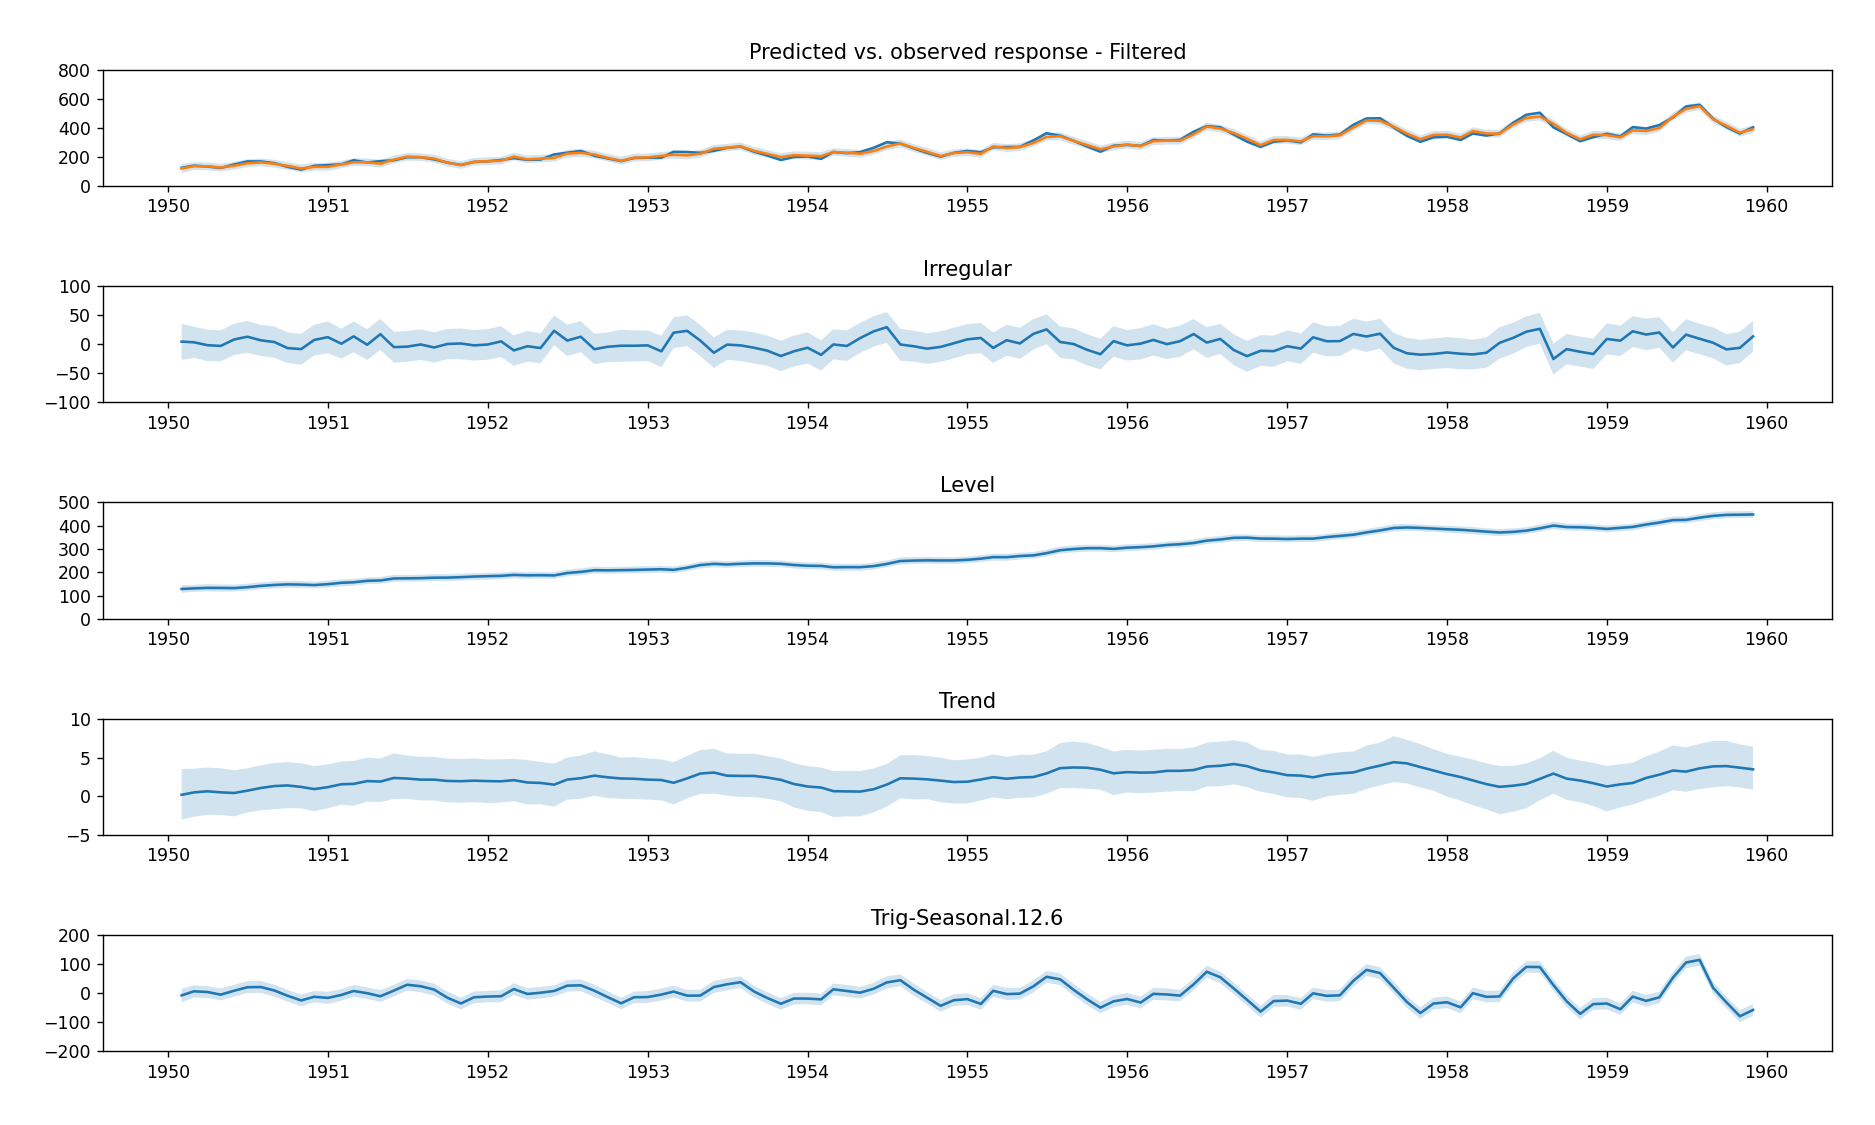
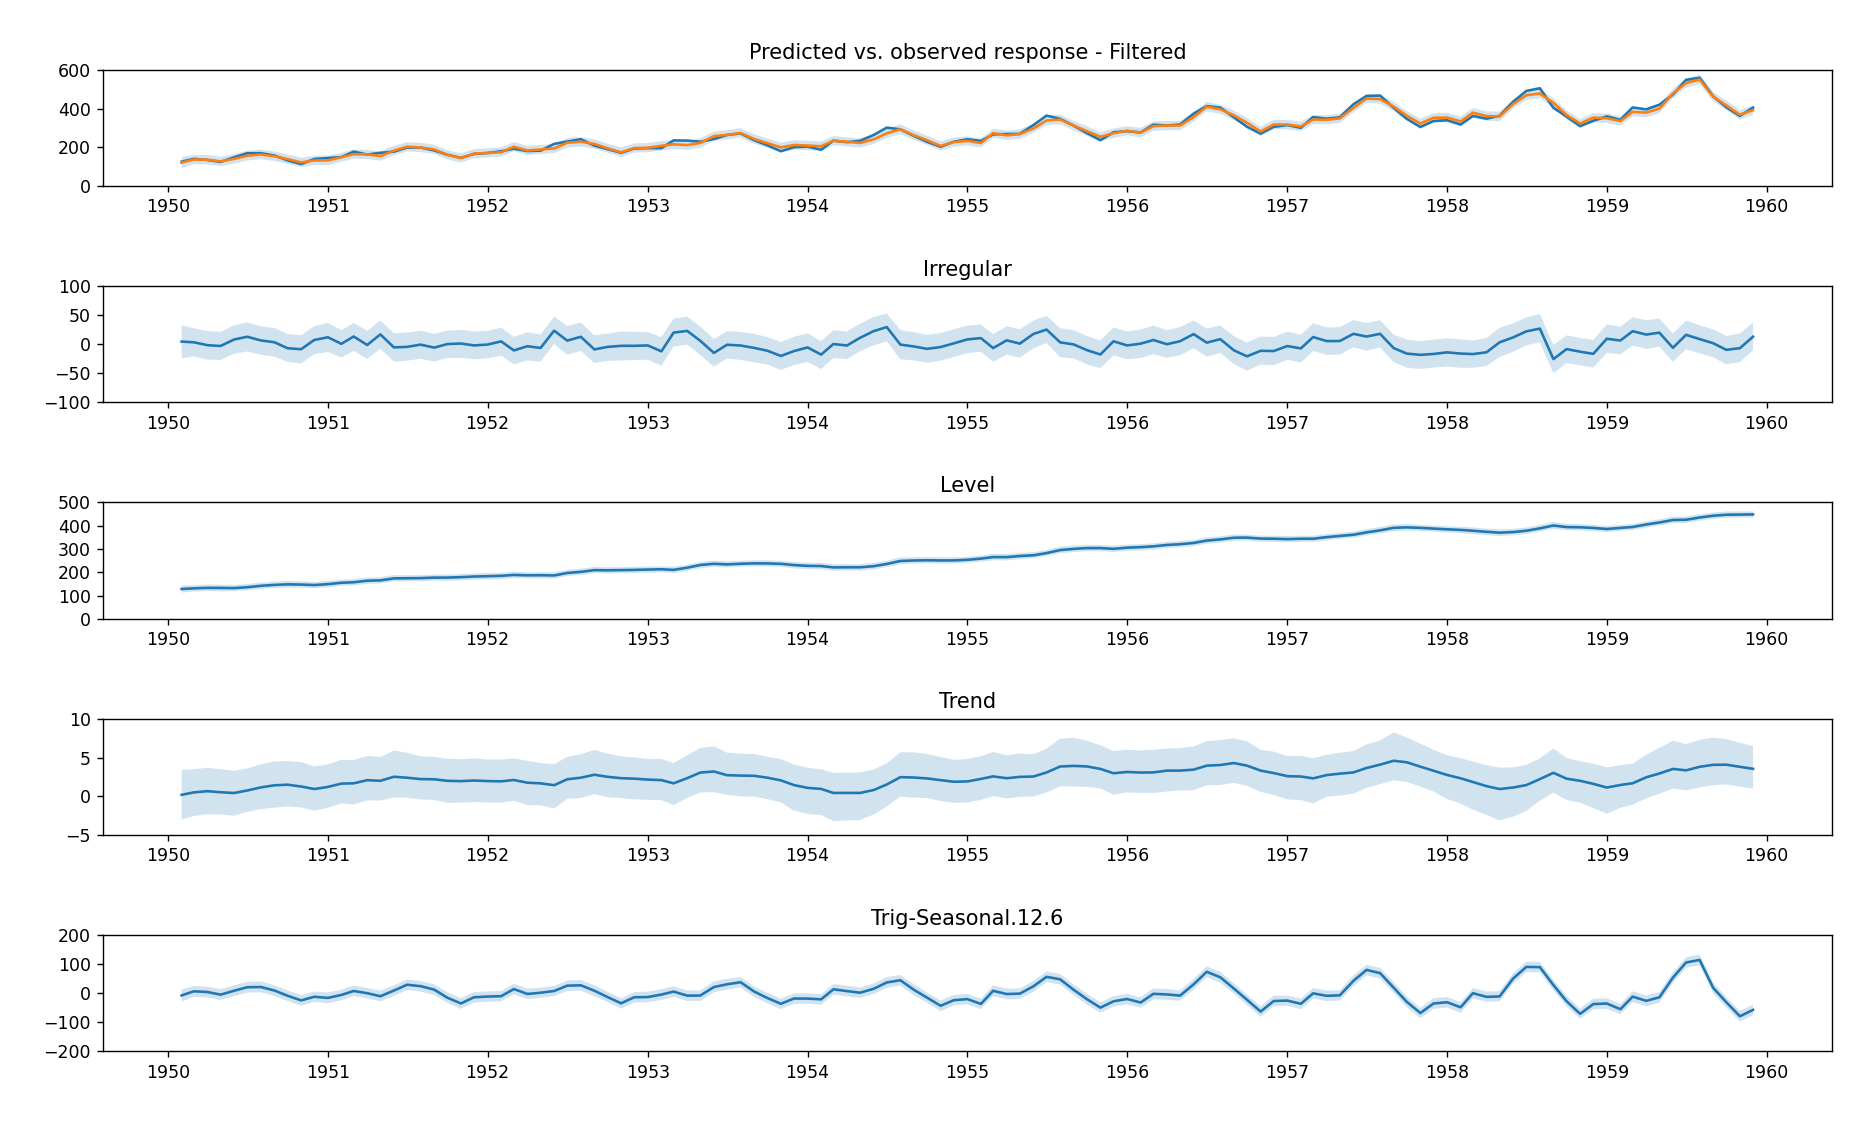
-Update to example images - Correction: scale for trend variance has been changed to (0.2 * 0.01 * std(response))^2, not (0.2 * std(response))^2

diff --git a/examples/airline.py b/examples/airline.py
@@ -120,7 +120,7 @@ if __name__ == '__main__':
     plt.show()
 
     # Plot time series components
-    bayes_uc.plot_components(burn=burn, smoothed=False)
+    bayes_uc.plot_components(burn=burn, smoothed=True)
     plt.show()
 
     # Plot trace of posterior
